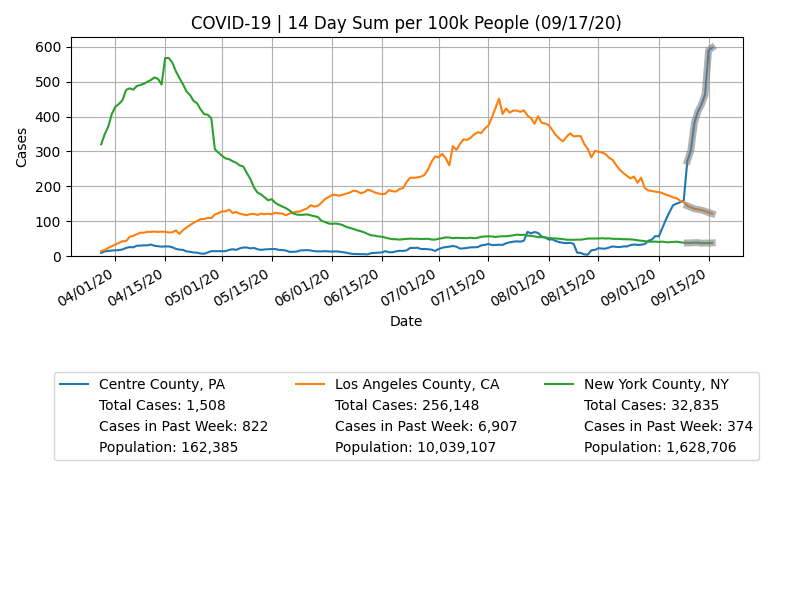
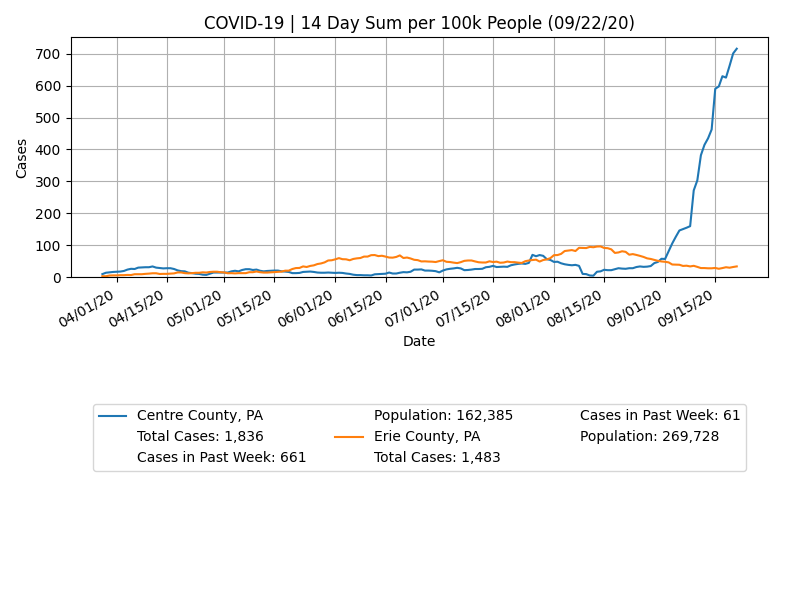
More progress

diff --git a/pkg/Covid_Plots.py b/pkg/Covid_Plots.py
@@ -9,18 +9,18 @@ from datetime import datetime
 
 def fips_lookup(county,state):
 
-    df = pd.read_csv('fips_dict.csv')
+    df = pd.read_csv('/home/bhabas/Documents/Covid-Plots/COVID_PA_Plot/fips_dict.csv')
     fips = df.loc[(df['state'] == state) & (df['name'] == county + " County")].values[0,0]
 
     return(fips)
 
 def pop_lookup(county,state):
-    df = pd.read_csv('co-est2019-alldata.csv', encoding = "latin")
+    df = pd.read_csv('/home/bhabas/Documents/Covid-Plots/COVID_PA_Plot/co-est2019-alldata.csv', encoding = "latin")
     population = df.loc[(df['STNAME'] == state) & (df['CTYNAME'] == county+" County")].values[0,18]
     return(population)
 
 def state_pop_lookup(state):
-    df = pd.read_csv('co-est2019-alldata.csv', encoding = "latin")
+    df = pd.read_csv('/home/bhabas/Documents/Covid-Plots/COVID_PA_Plot/co-est2019-alldata.csv', encoding = "latin")
     population = df.loc[(df['STNAME'] == state) & (df['CTYNAME'] == state)].values[0,18]
     return(population)
 def plot_biwk_sum(locations):
@@ -59,7 +59,7 @@ def plot_biwk_sum(locations):
 
         plt.plot(dates,d_mvs_pop, label=locations[i,0] + ' County, ' + locations[i,1])
         plt.plot([],[],label = "Total Cases: " + f"{total_cases:,}", color = "white")
-        plt.plot(dates[-8:],d_mvs_pop[-8:],linewidth = 5, alpha = 0.6, color = "gray")
+        plt.plot(dates[-8:],d_mvs_pop[-8:],linewidth = 5, alpha = 0.5, color = "gray")
         plt.plot([],[],label = "Cases in Past Week: " + f"{wk_new_cases:,}",color = "white")
         plt.plot([],[],label = "Population: "+ f"{population:,}",color = "white")
 

diff --git a/main.py b/main.py
@@ -11,18 +11,25 @@ import pkg.Covid_Plots as cp
 ## Data Import
 
 # County Data
-
+# Penn State, Ohio State, Univ. of Florida, Liberty Univ., Texas A&M, Illinois at Urbana-Champaign 
 
 locations = np.array([
-["Centre", "PA", "Pennsylvania"],
+["Centre", "PA", "Pennsylvania"], # Penn State
 ["Los Angeles", "CA", "California"],
 ["New York", "NY", "New York"]])
+
+locations = np.array([
+["Erie", "PA", "Pennsylvania"], # Penn State
+["Summit", "OH", "Ohio"],
+["Mecklenburg", "NC", "North Carolina"]])
+
+
 
 cp.plot_biwk_sum(locations)
 
 
 
 
-state = ["Pennsylvania"]
+state = ["Pennsylvania","North Carolina","Ohio"]
 cp.plot_state_data(state)
 
